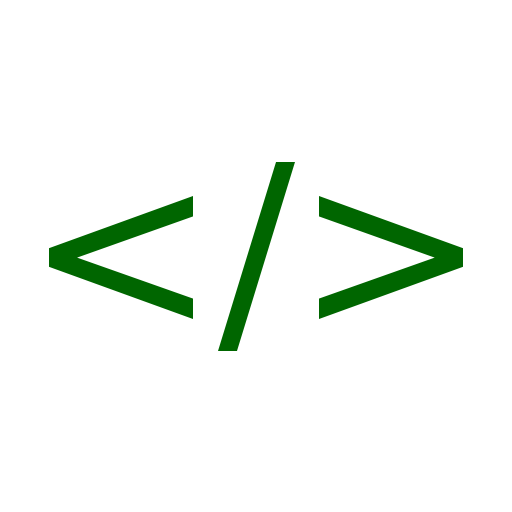
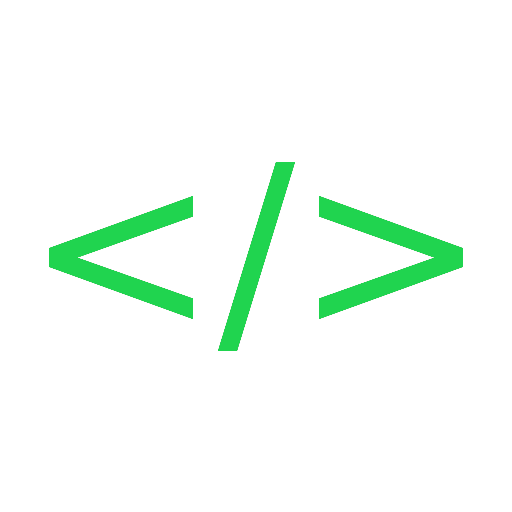
color change new section

Changed region(s): [[0.625, 0.375, 0.9062, 0.625], [0.0938, 0.375, 0.375, 0.625], [0.4062, 0.3125, 0.5938, 0.6875]]

diff --git a/index.html b/index.html
@@ -29,13 +29,28 @@
     <!--main content-->
     <div id="content" class="container-fluid">
         <div class="row animated bounceInLeft" id="languages">
-            <h2 class="contentHeading col-xs-12">Languages</h2>
-            <h4 class="col-md-3 col-xs-4">Java</h4>
-            <h4 class="col-md-3 col-xs-4">HTML/CSS</h4>
-            <h4 class="col-md-3 col-xs-4">JS</h4>
-            <h4 class="col-md-3 col-xs-4">PHP</h4>
-            <h4 class="col-md-3 col-xs-4">Python</h4>
-            <h4 class="col-md-3 col-xs-4">XML</h4>
+            <div class="col-md-6">
+                <h2 class="contentHeading col-xs-12">Languages</h2>
+                <h4 class="col-md-4 col-xs-6">Java</h4>
+                <h4 class="col-md-4 col-xs-6">HTML/CSS</h4>
+                <h4 class="col-md-4 col-xs-6">JS</h4>
+                <h4 class="col-md-4 col-xs-6">PHP</h4>
+                <h4 class="col-md-4 col-xs-6">Python</h4>
+                <h4 class="col-md-4 col-xs-6">XML</h4>
+            </div>
+            <div class="col-md-6">
+                <h2 class="contentHeading col-xs-12">Development Teams</h2>
+                <span class="col-md-6">
+                <img class="img-circle team" src="dkb%20logo.png"/>
+                    <h4 class="text-center teamName">DKB Software</h4>
+                    <p class="date text-center">2014 - Current</p>
+                </span>
+                <span class="col-md-6">
+                <img class="img-circle team" src="kyle_sm_logo.png"/>
+                    <h4 class="text-center teamName">KCAndroid</h4>
+                    <p class="date text-center">2014 - Current</p>
+                </span>
+            </div>
         </div>
         <div class="row animated bounceInRight" id="development">
             <h2 class="contentHeading col-xs-12">Development</h2>

diff --git a/style.css b/style.css
@@ -3,7 +3,7 @@ body {
 }
 #header {
     text-align: center;
-    background-color: #006600;
+    background-color: #20d44f;
     color: white;
     margin-bottom: 0;
 }
@@ -12,7 +12,7 @@ body {
     margin-bottom: 16px;
 }
 #development {
-    background-color: #006600;
+    background-color: #20d44f;
     color: white;
     padding: 18px;
 }
@@ -47,8 +47,11 @@ body {
     width: 6rem;
 }
 #footer {
-    background-color: #006600;
+    background-color: #20d44f;
     color: white;
     padding: 20px;
     text-align: center;
+}
+.team {
+    height: 11rem;
 }
